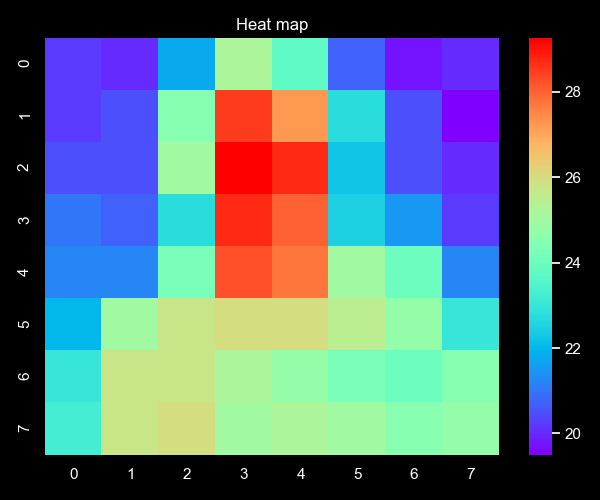
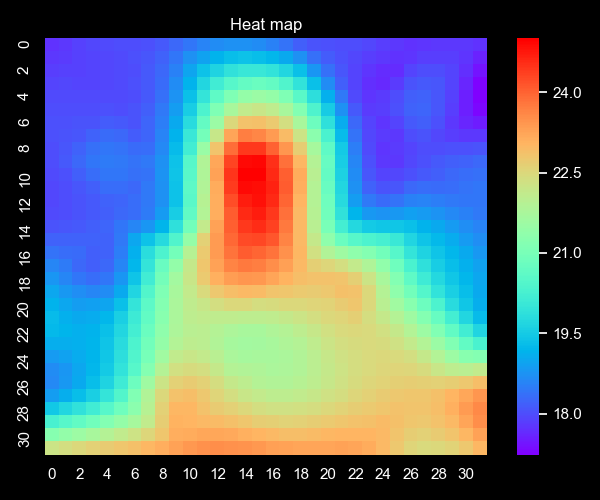
2d image interpolation

diff --git a/NUCLEO-F401RE/Thermography/thermography/heatmap.py b/NUCLEO-F401RE/Thermography/thermography/heatmap.py
@@ -1,20 +1,18 @@
-# << Digial signal processing for oscilloscope GUI >>
 #
-# (1) Interface to the edge device (STM32L4 w/ my original
-#     MEMS mic Arduino shield)
-# (2) Plot the data with matplotlib
+# Heatmap
 #
-# Follow the definition in the include files below:
-# https://github.com/araobp/acoustic-event-detection/tree/master/stm32/Inc
+# Reference: https://learn.adafruit.com/adafruit-amg8833-8x8-thermal-camera-sensor/raspberry-pi-thermal-camera
 #
 
 import serial
 import pandas as pd
 import numpy as np
+import math
 import traceback
 import threading
 #import matplotlib.pyplot as plt
 import seaborn as sns; sns.set()
+from scipy.interpolate import griddata
 
 ### Constants #####
 
@@ -27,6 +25,10 @@ THERMISTOR = b't'
 NUM_SAMPLES = {}            # The number of samples to receive from the device
 NUM_SAMPLES[PIXELS] = 64
 NUM_SAMPLES[THERMISTOR] = 1
+
+# Points and grids for interpolation of 2d image
+POINTS = [(math.floor(n / 8), (n % 8)) for n in range(0, 64)]
+GRID_X, GRID_Y = np.mgrid[0:7:32j, 0:7:32j]
 
 ###################
 
@@ -85,15 +87,16 @@ class GUI:
     # Use matplotlib to plot the output from the device
     def plot(self, axes, cmd, cmap=None, ssub=None):
 
-        mag = self.read(cmd)
+        data = self.read(cmd)
         
         if cmd == PIXELS:
-            mag = mag * 0.25  # Resolution: 0.25 per degress Celsius
-            mag = np.flip(np.flip(mag.reshape(8,8), axis=0), axis=1)
+            data = data * 0.25  # Resolution: 0.25 per degress Celsius
+            data = griddata(POINTS, data, (GRID_X, GRID_Y), method='cubic')
+            data = np.flip(np.flip(data.reshape(32,32), axis=0), axis=1)
             axes[0].set_title('Heat map')
-            sns.heatmap(mag, cmap=cmap, ax=axes[0], cbar_ax=axes[1])
+            sns.heatmap(data, cmap=cmap, ax=axes[0], cbar_ax=axes[1])
 
         elif cmd == THERMISTOR:
-            mag = (mag - 20) * 0.0625  # Resolution: 0.0625 per degree Celsius
+            data = (data - 20) * 0.0625  # Resolution: 0.0625 per degree Celsius
             
-        return mag
+        return data

diff --git a/NUCLEO-F401RE/Thermography/thermography/thermography.py b/NUCLEO-F401RE/Thermography/thermography/thermography.py
@@ -1,3 +1,7 @@
+#
+# Thermography GUI
+#
+
 import matplotlib
 import numpy as np
 from matplotlib.backends.backend_tkagg import FigureCanvasTkAgg
@@ -46,15 +50,15 @@ if __name__ == '__main__':
     def pixels():
         ax1.clear()
         ax2.clear()
-        mag = gui.plot((ax1, ax2), heatmap.PIXELS, cmap='rainbow')
+        data = gui.plot((ax1, ax2), heatmap.PIXELS, cmap='rainbow')
         fig.tight_layout()
         canvas.draw()
         thermistor()
         repeat(pixels)
 
     def thermistor():
-        mag = gui.plot((ax1, ax2), heatmap.THERMISTOR)
-        label_thermistor.configure(text='Room temperature: {:.1f} degrees Celsius'.format(mag[0]))
+        data = gui.plot((ax1, ax2), heatmap.THERMISTOR)
+        label_thermistor.configure(text='Room temperature: {:.1f} degrees Celsius'.format(data[0]))
 
     repeat_action = False
 
